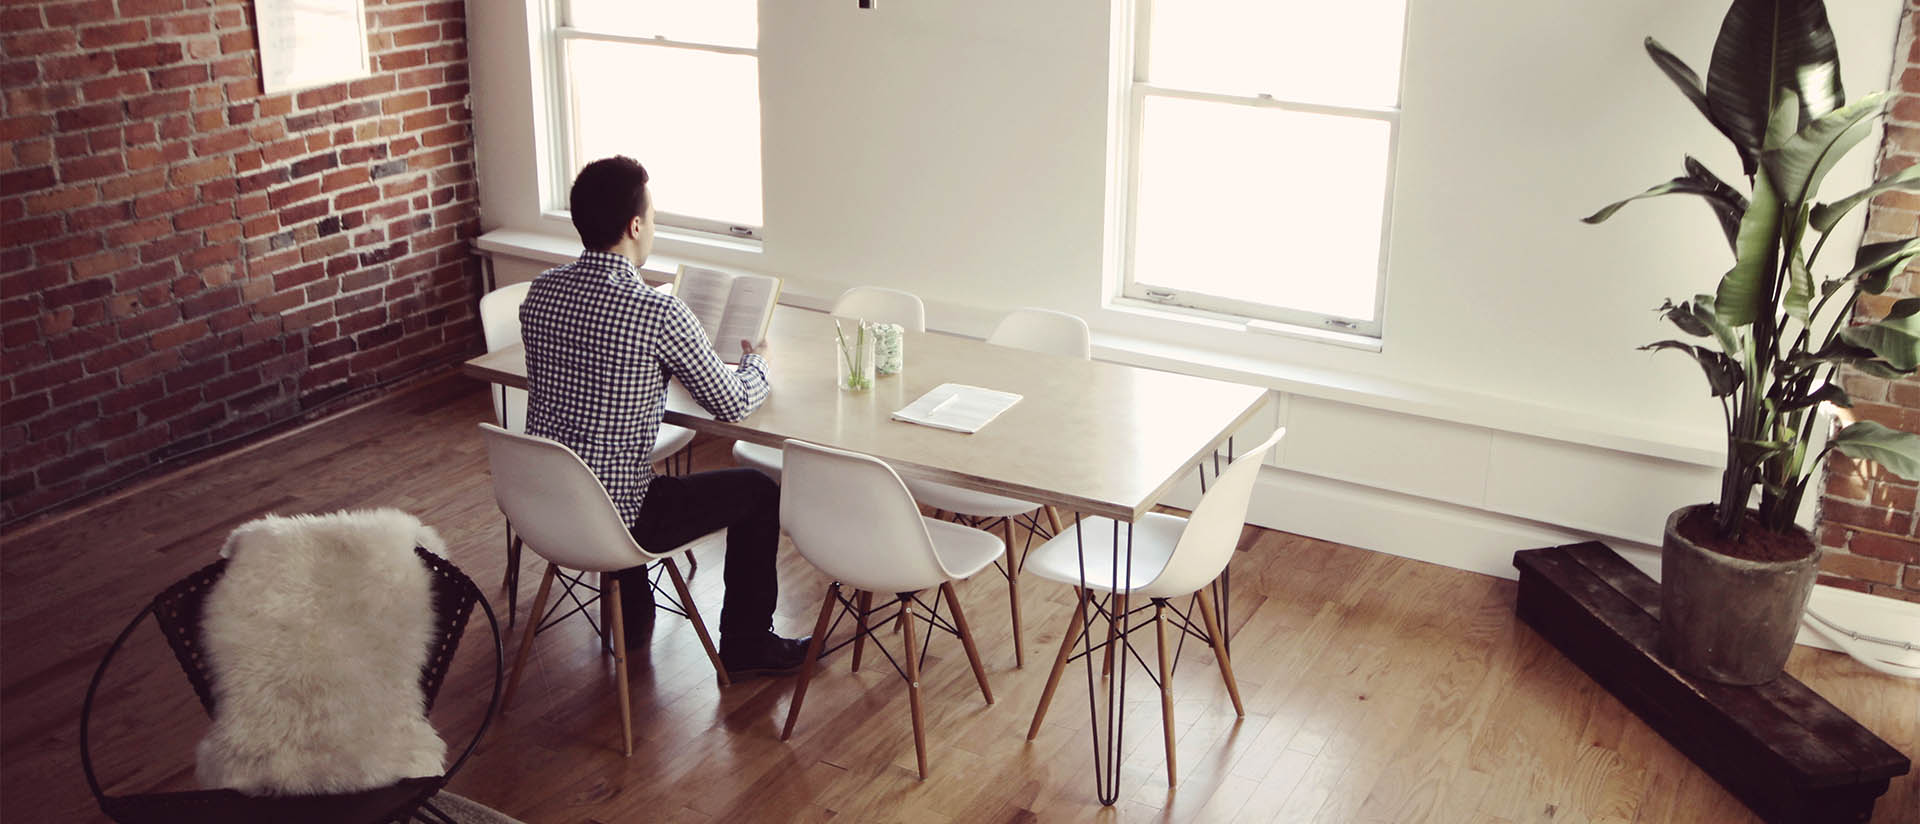
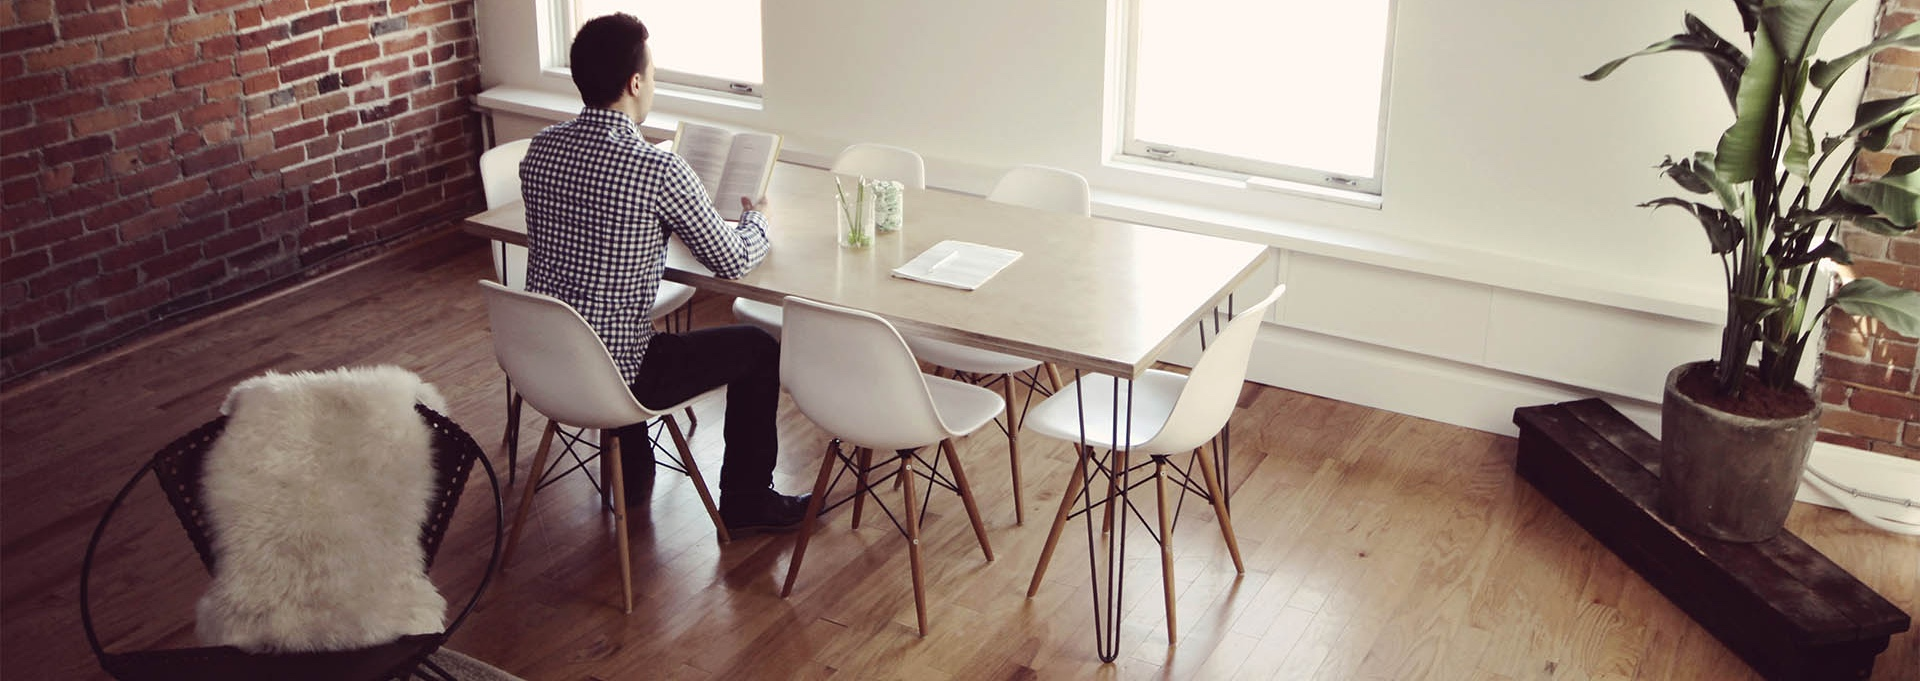
fix random text

diff --git a/css/style.css b/css/style.css
@@ -891,8 +891,8 @@ footer img {
 .top-bar {
     color: #333;
     padding: 150px 0 150px;
-    background: -webkit-linear-gradient( rgba(255, 255, 255, .8), rgba(255, 255, 255, .8)), url(../img/01.jpg);
-    background: linear-gradient( rgba(255, 255, 255, .8), rgba(255, 255, 255, .8)), url(../img/01.jpg);
+    background: -webkit-linear-gradient( rgba(255, 255, 255, .8), rgba(255, 255, 255, .8)), url(../img/landscape.jpeg);
+    background: linear-gradient( rgba(255, 255, 255, .8), rgba(255, 255, 255, .8)), url(../img/landscape.jpeg);
     background-size: cover;
     background-attachment: fixed;
     background-position: center center;

diff --git a/index.html b/index.html
@@ -19,7 +19,7 @@
 
     <!-- modernizr -->
     <script src="js/modernizr.js"></script>
-https://zheeeeeeeeeeeee.github.io/portfolio/single-project.html
+
     <!-- HTML5 shim and Respond.js for IE8 support of HTML5 elements and media queries -->
     <!-- WARNING: Respond.js doesn't work if you view the page via file:// -->
     <!--[if lt IE 9]>
